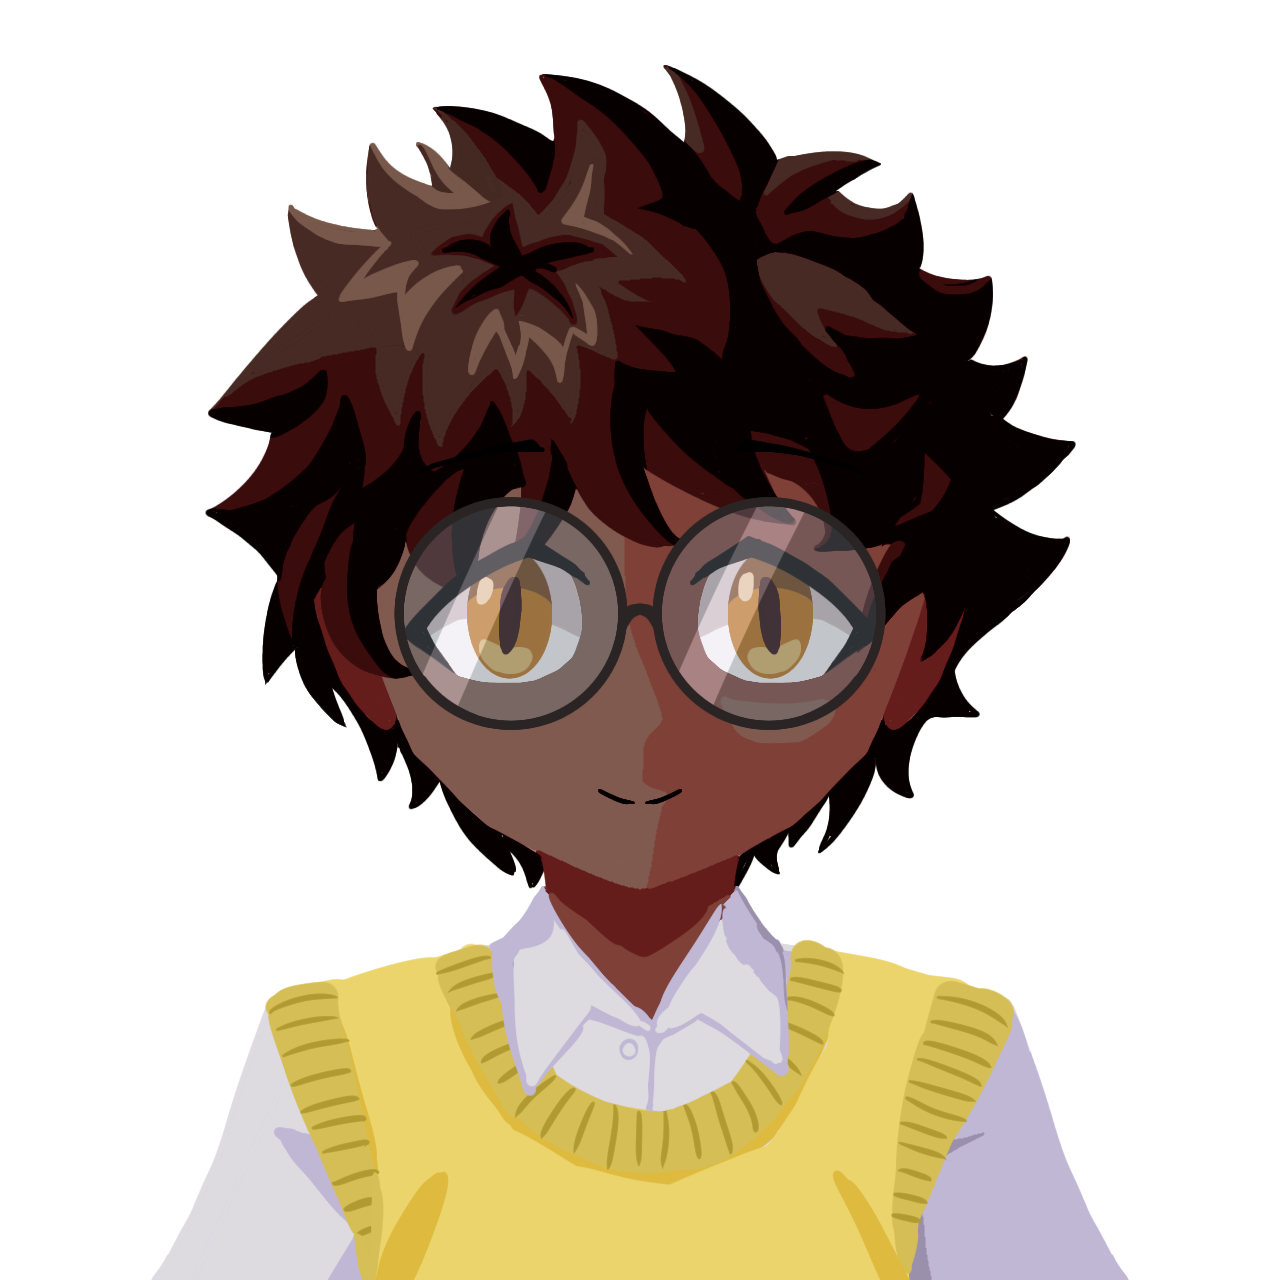
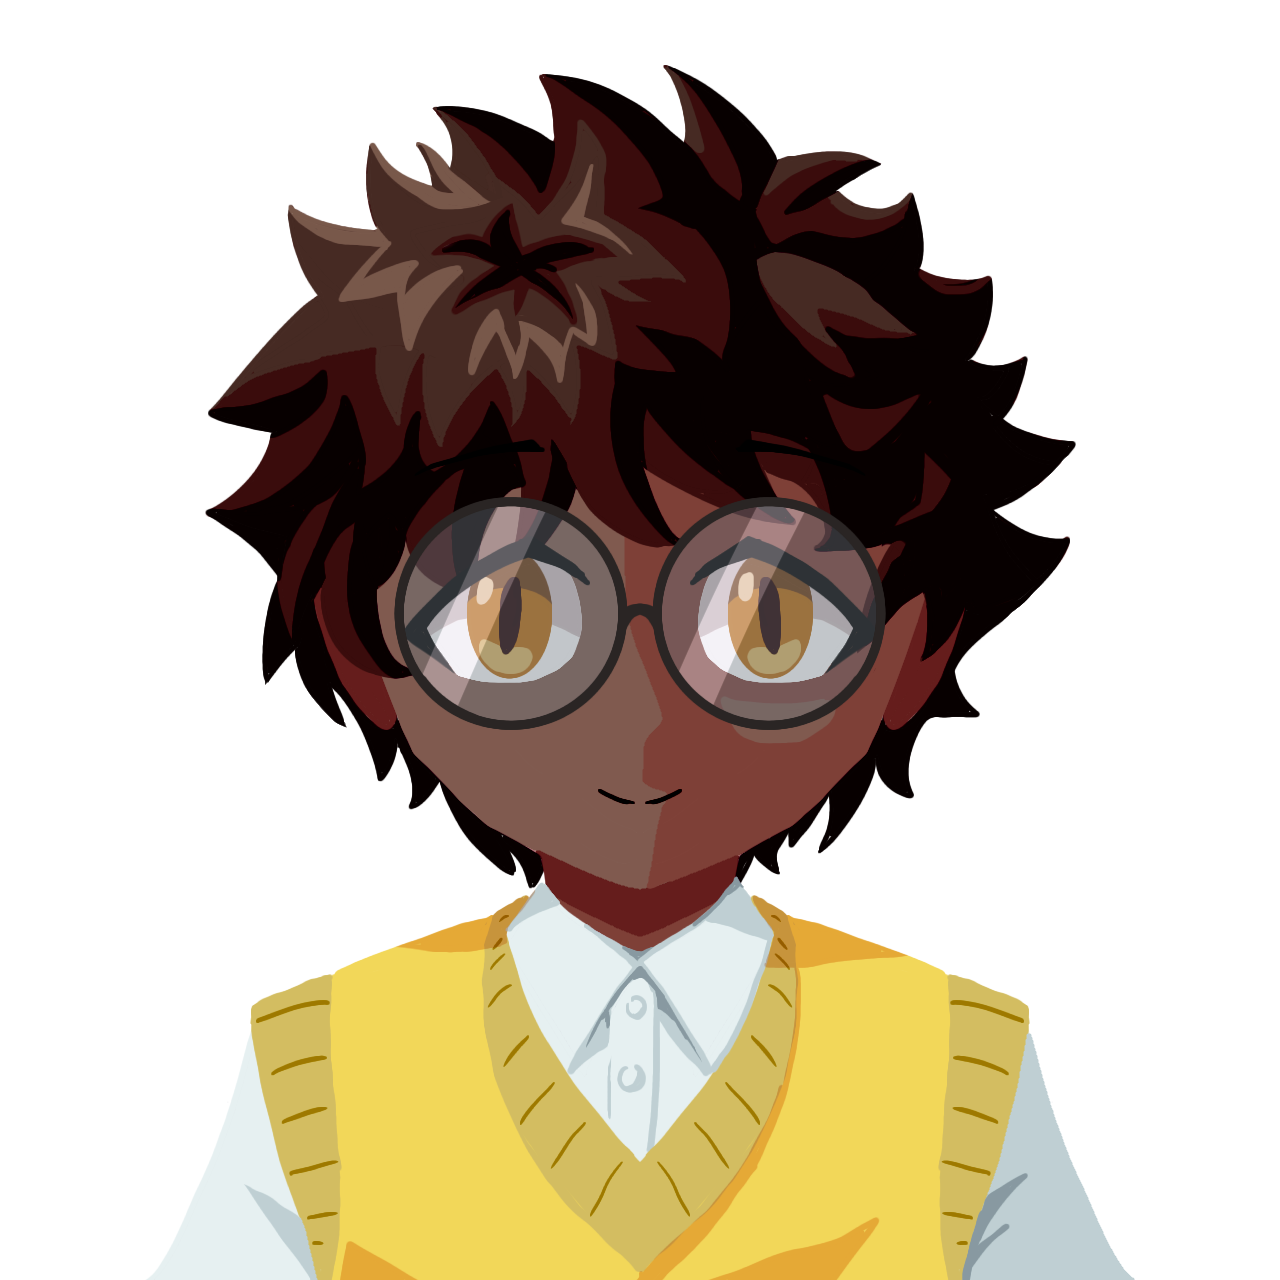
feat(skins): replace Skin1 art with the artist's redraw
Every student's Skin1 splash and face-rig base now come from the
artist's 2026-09-24 Drive delivery: recoloured outfits, and full-length
splashes with shoes that match the default splashes' extent instead of
stopping at the knee. The flat Skin1 portraits are rebaked from the new
bases with BakeSkinPortraits.gd (its default-bake check reads
0.008-0.031). Arms are bare forearms and stay; the clothes-only item images
are still not imported (DEBT.md).

Changed region(s): [[0.1875, 0.6875, 0.8438, 1.0], [0.8438, 0.9375, 0.875, 0.9688]]

diff --git a/docs/superpowers/DEBT.md b/docs/superpowers/DEBT.md
@@ -818,7 +818,8 @@ left behind. Spec: `docs/superpowers/specs/2026-09-28-ui-depth-pass-design.md`.
   skin starts unlocked (`StudentSkins.UNLOCKED_BY_DEFAULT`) and only the debug
   toggle locks them; the Cosmetic Shop stub is the likely home. Worn skins
   are session-scoped like the roster (not saved). The artist's
-  `<Name>Skin1(itemonly).png` clothes-only images (kosmetik.zip) are not
+  clothes-only images (`<Name>_skin1_item.png`, Drive folder
+  `1YOa85DvUYQfhyXPf8cNrUTEH2St8uwcW`, 2026-10-01 redraw) are not
   imported -- probably future shop icons. The flat Skin1 portraits are baked,
   not drawn: re-run `Scripts/Skins/BakeSkinPortraits.gd` (headless, see its
   header) when a skin's face base changes; Marcel's glasses bake with a
